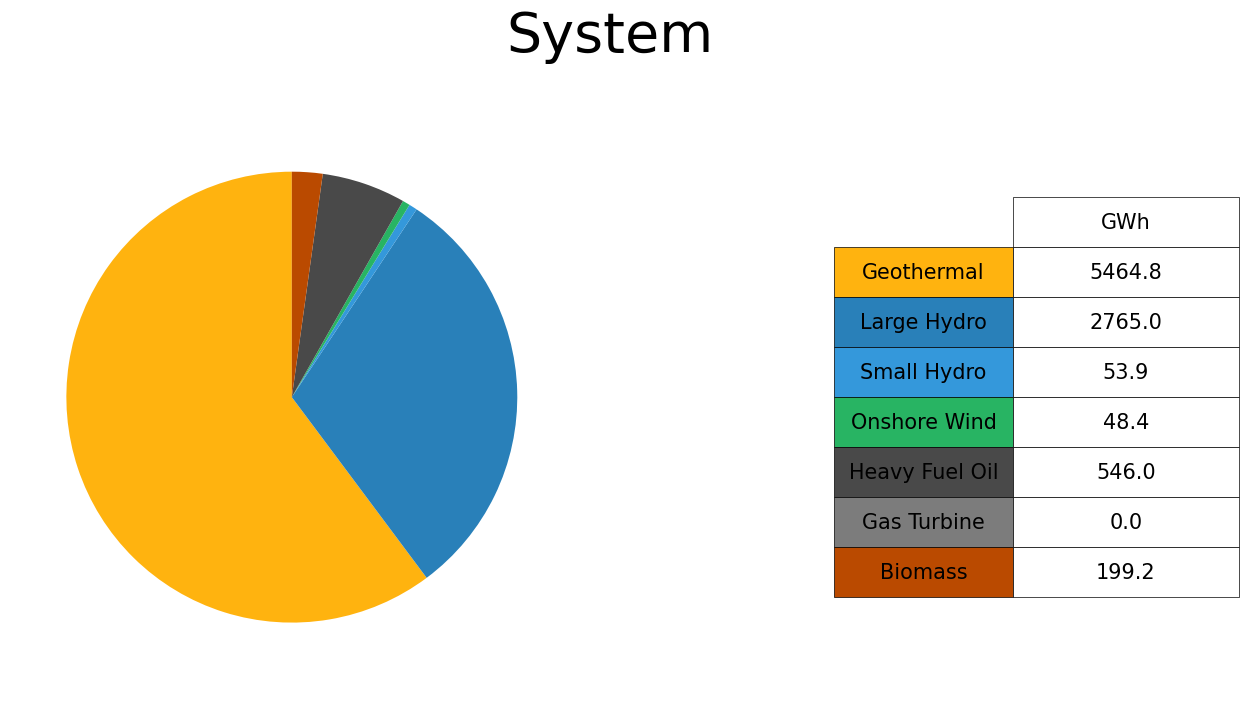
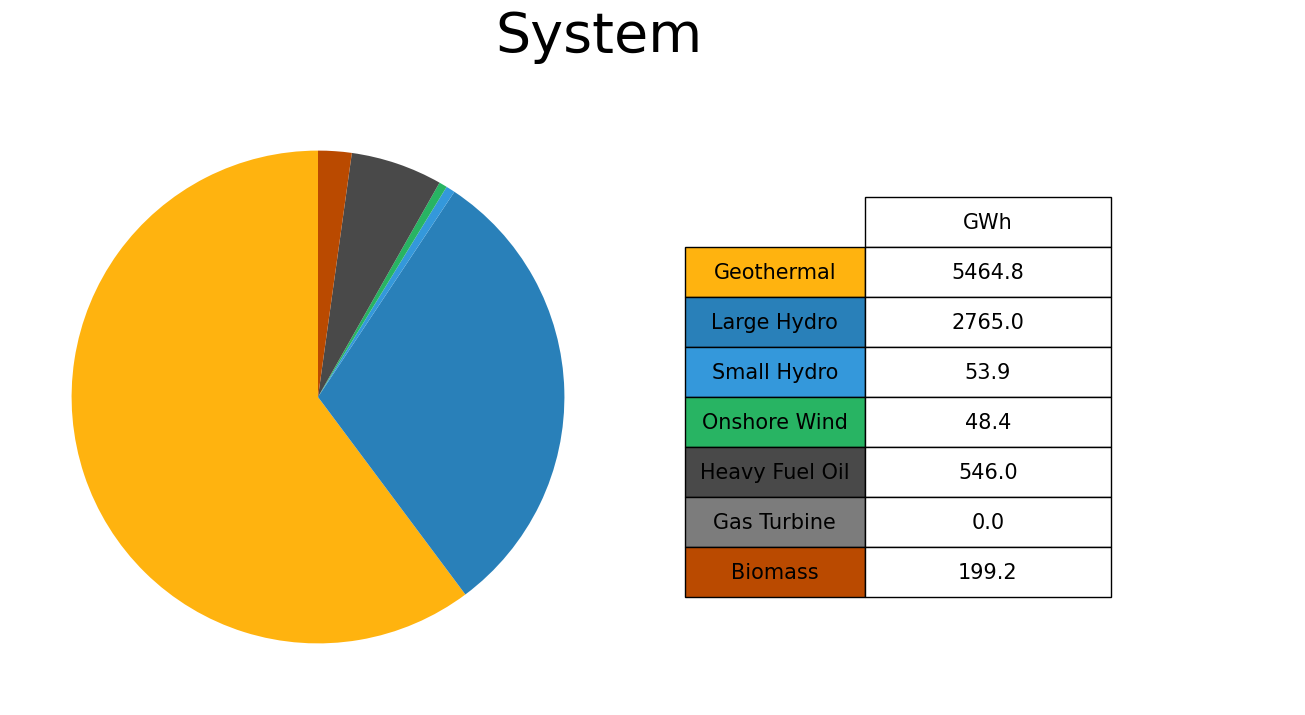
some changes in pie charts

diff --git a/Calliope_Kenya/Models/4Nodes_No-Coffee/calliope_graph/graphs.py b/Calliope_Kenya/Models/4Nodes_No-Coffee/calliope_graph/graphs.py
@@ -327,7 +327,7 @@ def nod_pie(nodes,rational,fig_format,unit,conversion,kind,style,title_font,prod
         if kind == 'absolute':
             data = data*conversion
             
-        fig, (ax1, ax2) = plt.subplots(nrows=1, ncols=2, figsize=figsize)
+        fig, (ax1, ax2) = plt.subplots( nrows=1, ncols=2, figsize=figsize,gridspec_kw={'width_ratios': [3, 1]})
 
         
         ax1.pie(data['Production'],shadow=False,colors=colors[data.index],startangle=90)
@@ -335,6 +335,11 @@ def nod_pie(nodes,rational,fig_format,unit,conversion,kind,style,title_font,prod
         ax2.patch.set_visible(False)
         ax2.get_xaxis().set_visible(False)
         ax2.get_yaxis().set_visible(False)
+    
+        l, b, w, h = ax1.get_position().bounds
+        ll, bb, ww, hh = ax2.get_position().bounds
+        ax2.set_position([ll*0.85, b , w, h])
+        ax2.axis('off') 
     
         if kind == 'share':
             tab_label = '%'
@@ -348,10 +353,10 @@ def nod_pie(nodes,rational,fig_format,unit,conversion,kind,style,title_font,prod
                               rowColours=colors[data.index],
                               rowLabels= names[data.index],
                               colLabels = [tab_label],
-                              loc='center right',
+                              loc='center',
                               rowLoc ='center',
                               colLoc='center',
-                              cellLoc='center')    
+                              cellLoc='center')   
     
         table.auto_set_font_size(False)
         
@@ -387,14 +392,19 @@ def sys_pie(rational,fig_format,unit,conversion,kind,style,title_font,production
     if kind == 'absolute':
         data = data*conversion
         
-    fig, (ax1, ax2) = plt.subplots(nrows=1, ncols=2, figsize=figsize)
+    fig, (ax1, ax2) = plt.subplots( nrows=1, ncols=2, figsize=figsize,gridspec_kw={'width_ratios': [3, 1]})
 
     
     ax1.pie(data['Production'],shadow=False,colors=colors[data.index],startangle=90)
-    
+
     ax2.patch.set_visible(False)
     ax2.get_xaxis().set_visible(False)
     ax2.get_yaxis().set_visible(False)
+
+    l, b, w, h = ax1.get_position().bounds
+    ll, bb, ww, hh = ax2.get_position().bounds
+    ax2.set_position([ll*0.85, b , w, h])
+    ax2.axis('off') 
 
     if kind == 'share':
         tab_label = '%'
@@ -408,7 +418,7 @@ def sys_pie(rational,fig_format,unit,conversion,kind,style,title_font,production
                           rowColours=colors[data.index],
                           rowLabels= names[data.index],
                           colLabels = [tab_label],
-                          loc='center right',
+                          loc='center',
                           rowLoc ='center',
                           colLoc='center',
                           cellLoc='center')    
@@ -418,7 +428,7 @@ def sys_pie(rational,fig_format,unit,conversion,kind,style,title_font,production
     table.scale(0.4, 3)
     table.set_fontsize(table_font)
     
-    fig.suptitle('System', fontsize=title_font)
+    fig.suptitle('System', fontsize=title_font,horizontalalignment='left')
     
     plt.show()
     fig.savefig('{}\system_{}_pie.{}'.format(directory,kind,fig_format), dpi=fig.dpi,bbox_inches='tight')       

diff --git a/Calliope_Kenya/Models/4Nodes_No-Coffee/untitled0.py b/Calliope_Kenya/Models/4Nodes_No-Coffee/untitled0.py
@@ -18,8 +18,8 @@ print(str(end-start))
 #%%
 import cal_graph as CG
 amin=CG.C_Graph(model=model,ex_path=r'Graph_inputs.xlsx',unit='kW')
-amin.system_pie(kind='absolute',unit='GWh',v_round=1,title_font=40)
-amin.node_pie(kind='absolute',unit='GWh',v_round=3,title_font=20)
-amin.node_pie(kind='absolute',unit='GWh',v_round=3,title_font=20,rational='consumption')
-amin.sys_dispatch(unit='GW',average='weekly',x_ticks='name',fig_format='svg')
+#amin.system_pie(kind='absolute',unit='GWh',v_round=1,title_font=40,style='default')
+amin.node_pie(kind='absolute',unit='GWh',v_round=1,title_font=40)
+# amin.node_pie(kind='absolute',unit='GWh',v_round=3,title_font=20,rational='consumption')
+# amin.sys_dispatch(unit='GW',average='weekly',x_ticks='name',fig_format='svg')
 #%%
